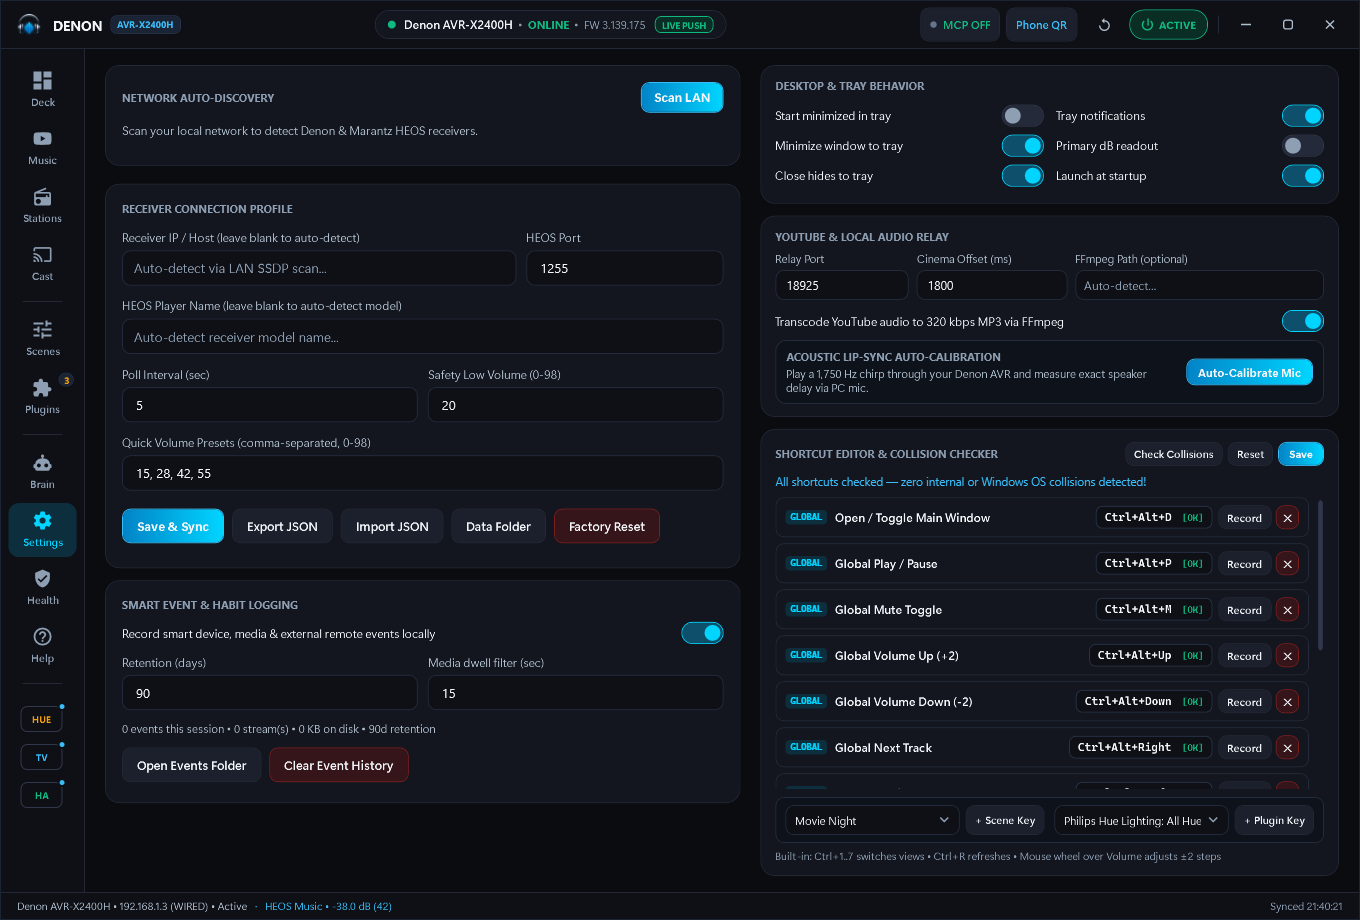
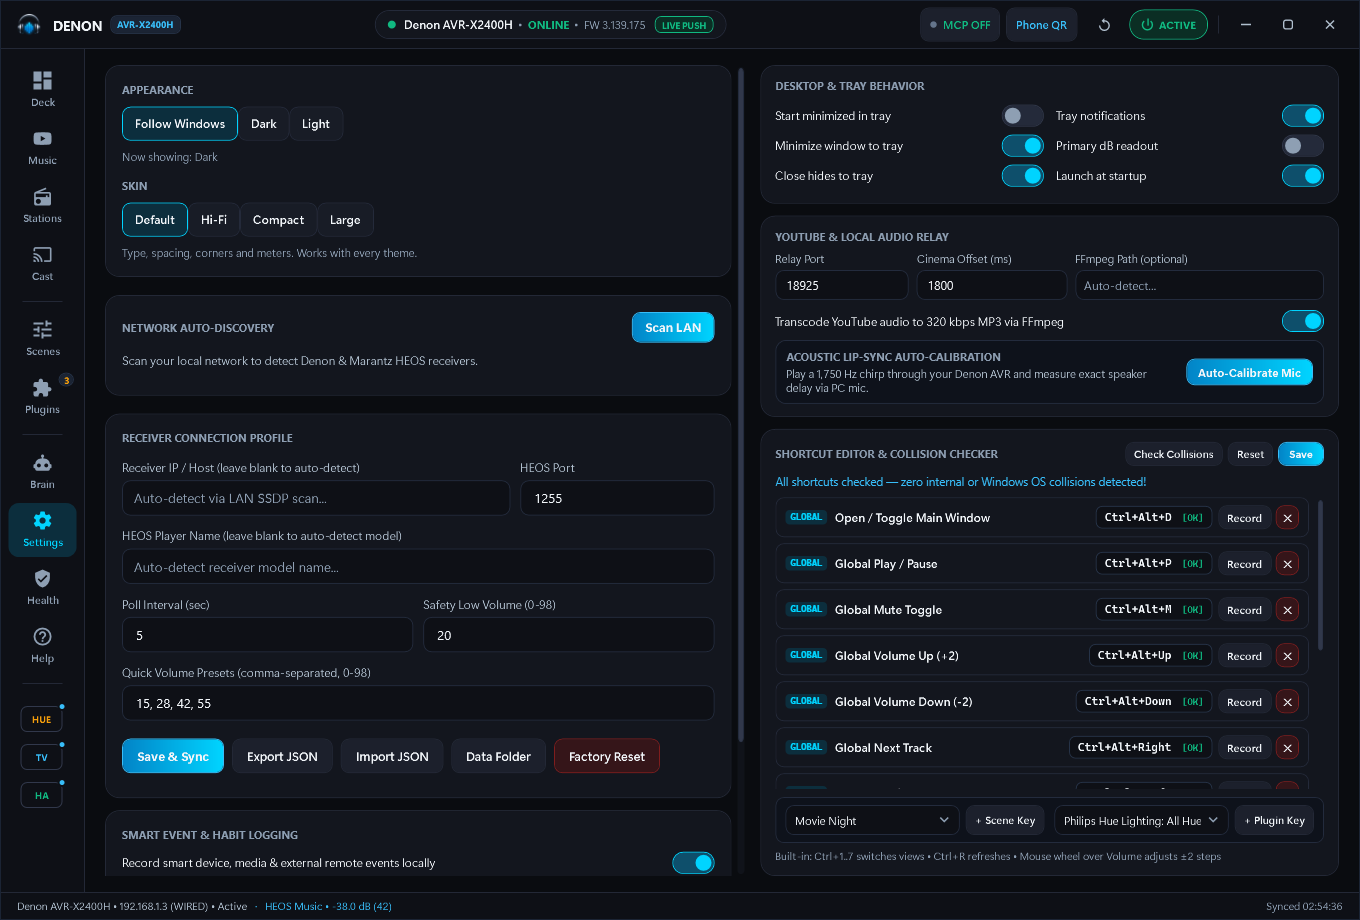
Release v2.0.0
Themes (Dark, Light, Follow Windows) and skins (Default, Hi-Fi, Compact,
Large), both live. README screenshot of Settings shows the Appearance card.

diff --git a/CHANGELOG.md b/CHANGELOG.md
@@ -6,11 +6,17 @@ The format is based on [Keep a Changelog](https://keepachangelog.com/en/1.1.0/),
 
 ## [Unreleased]
 
+## [2.0.0] - 2026-11-24
+
+Themes and skins. The Chromecast (0.5.0 or later) and Apple TV (0.4.0 or later) plugin pages follow both live;
+older plugin versions keep the Dark colors and the Default sizes.
+
 ### Added
 - **Themes**: Settings → Appearance has *Follow Windows* (the default: light or dark as Windows apps are set), *Dark* and *Light*. The theme switches live, with no restart, and is saved at once. The VU dials and the LED spectrum screen stay dark in every theme, like the display of a real receiver.
 - **Skins**: Settings → Appearance → Skin has *Default*, *Hi-Fi* (rack-receiver look: nearly square corners, Bahnschrift headings, Share Tech Mono numbers, amber-backlit VU dials and a teal fluorescent-display spectrum), *Compact* (smaller type and tighter spacing) and *Large* (larger type, controls and spacing, for the sofa or a touch screen). A skin switches live, works with every theme, and also reaches the plugin pages.
 - **Screenshot mode options** for theme and skin work: `--theme <id>`, `--skin <id>`, `--switch-theme <id>` and `--switch-skin <id>` (switch live with the window open, to test the live path) and `--all-pages` (also Brain, Health, Help, Plugins and each plugin page).
 - **Third-party notices** (`THIRD-PARTY-NOTICES.md`, installed next to the app) for the bundled Share Tech Mono font (SIL Open Font License).
+- **README screenshots** show the Appearance card in Settings.
 
 ### Changed
 - **Theme files** are in layers (see `docs/theming.md`): palettes in `Themes/Palettes/` (Dark, Light), brushes built from them in `Themes/Brushes.xaml`, skin tokens in `Themes/Skins/` (one file per skin), and the shared `Themes/Icons.xaml` and `Themes/Styles.xaml`. Views refer to theme brushes and skin tokens with `DynamicResource`; tests block `StaticResource` for them.

diff --git a/TODO.md b/TODO.md
@@ -101,7 +101,6 @@ Design and decisions: `docs/theming.md` (branch `theming-2.0`).
 - [x] Released Chromecast plugin 0.5.0 and Apple TV plugin 0.4.0 (theme brushes read at each use, `HostSkin`).
 - [ ] Check live in the installed app: tray flyout, YouTube cinema window, Chromecast and Apple TV pages in Light and
       in each skin (screenshot mode does not show them).
-- [ ] Refresh README screenshot 06 (Settings now has the Appearance card).
 - [ ] Help topic badges and scene colors are content colors (not themed): check that they read on Light.
 - [ ] Decide user theme files (JSON tokens, validated on import; no loose XAML).
 - [ ] Semantic aliases (Success/Warning/Danger/Info/Accent) over the hue families, so a theme can recolor states.
